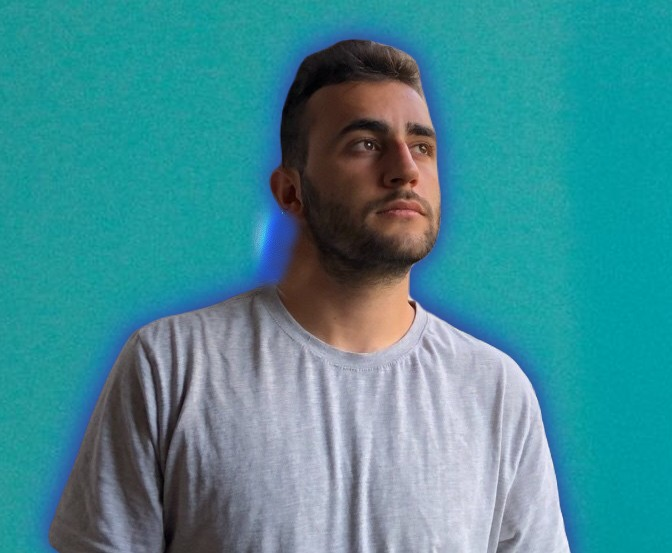
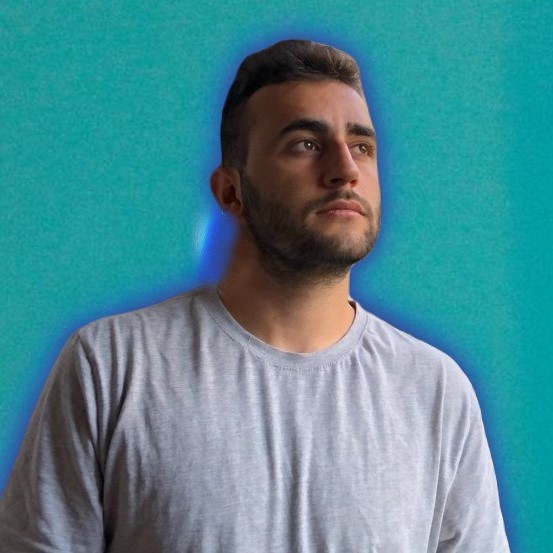
responsive düzenleme

diff --git a/style.css b/style.css
@@ -114,9 +114,7 @@ span{
     margin-top: 1.5rem;
     line-height: 1;
 }
-.home-img{
-    border-radius: 50%;
-}
+
 .home-img img{
     position: relative;
     top: 3rem;
@@ -381,19 +379,19 @@ span{
     
     .services-container {
       display: grid;
-      grid-template-columns: repeat(2,1fr);
-      align-items: center;
+      grid-template-columns: repeat(2, 1fr);
+      align-items: center; 
       gap: 2.5rem;
     }
     
     .services-box {
-      display: flex;
       background-color: var(--main-color);
-      height: 300px;
+      height: 355px;
+      /* height: 300px; */
       border-radius: 3rem;
       border: 5px solid transparent;
-      transition: 0.4s ease-in-out;
       cursor: pointer;
+      transition: 0.4s ease-in-out;
     }
     
     .services-box:hover {
@@ -405,26 +403,28 @@ span{
     
     .services-box .services-info {
       display: flex;
-      flex-direction: column;
-      text-align: left;
-      max-height: 200px;
-      justify-content: left;
-      align-items: baseline;
-      padding: 5rem 5rem;
+    flex-direction: column;
+    text-align: left;
+    max-height: 200px;
+    justify-content: left;
+    align-items: baseline;
+    padding: 5rem 5rem;
     }
     
     .services-info h4 {
-      font-size: 2.8rem;
+      font-size: 3rem; 
+      /* font-size: 2rem; */
       font-weight: 800;
-      line-height: 2;
+      line-height: 2; 
+      /* line-height: 1; */
     }
     
     .services-info p {
       font-size: 1.6rem;
-      font-weight: 600;
-      max-height: 100px;
-      line-height: 1.7;
-      margin: auto;
+    font-weight: 600;
+    max-height: 100px;
+    line-height: 1.7;
+    margin: auto;
     }
 
   .skills {
@@ -649,7 +649,7 @@ span{
       position: absolute;
       top: 100%;
       right: 0;
-      width: 50%;
+      width: 100%;
       padding: 1rem 3%;
       background: rgba(0, 0, 0, 0.8);
       backdrop-filter: blur(20px);
@@ -683,9 +683,40 @@ span{
       margin: 0 auto;
     }
     .home-img img{
-      width: 56vmax;
+      width: 38vmax;
+      height: 38vmax;
     }
     .services.h2{
       margin-bottom: 3rem;
     }
+    .services .services-box{
+      display: block;
+    }
+    .services p{
+      padding-bottom: 2px;
+      display: block;
+      clear: both;
+    }
+    .services-container{
+      grid-template-columns: repeat(1, 1fr);
   }
+  }
+  @media (max-width:550px) {
+    html{
+      font-size: 45%;
+    }
+    .home-img img{
+      width: 50vw;
+      height: 50vw;
+    }
+  }
+    @media (max-width:366px) {
+      html{
+        font-size: 35%;
+      }
+  }
+  @media (max-width:248px) {
+    html{
+      font-size: 30%;
+    }
+}

diff --git a/index.html b/index.html
@@ -129,7 +129,7 @@
         <div class="services-info">
           <h4>Angular Projeleri</h4>
           <p>
-            Angular ile tecrübesi pek olmayan biriyim. Bir kere kullandım ancak çok yanlıştı yapılarım. Şuanda devam etmekte olan Yetenek Başakşehir eğitiminin ilerleyen süreçlerinde göreceğim. Siz bu içeriği incelerken eğer tarih 2024'ün 10. ayından sonraysa, bu konuyla ilgili de benimle iletişime geçebileceğinizi düşnüyorum&#9786;
+            Şuanda devam etmekte olan Yetenek Başakşehir eğitiminin ilerleyen süreçlerinde göreceğim. Siz bu içeriği incelerken eğer tarih 2024'ün 10. ayından sonraysa, bu konuyla ilgili de benimle iletişime geçebileceğinizi düşnüyorum&#9786;
           </p>
         </div>
       </div>
@@ -142,7 +142,7 @@
    <!-- Yetenekler -->
    <section class="skills" id="skills">
     <div class="skills-box">
-      <h2 class="heading">Yetenekeler</h2>
+      <h2 class="heading">Yetenekler</h2>
 
       <div class="wrapper">
         
@@ -270,6 +270,7 @@
     </form>
   </section>
 
+  <!-- Footer -->
   <footer class="footer">
     <div class="social">
       <a href="#"><i class="bx bxl-linkedin"></i></a>
